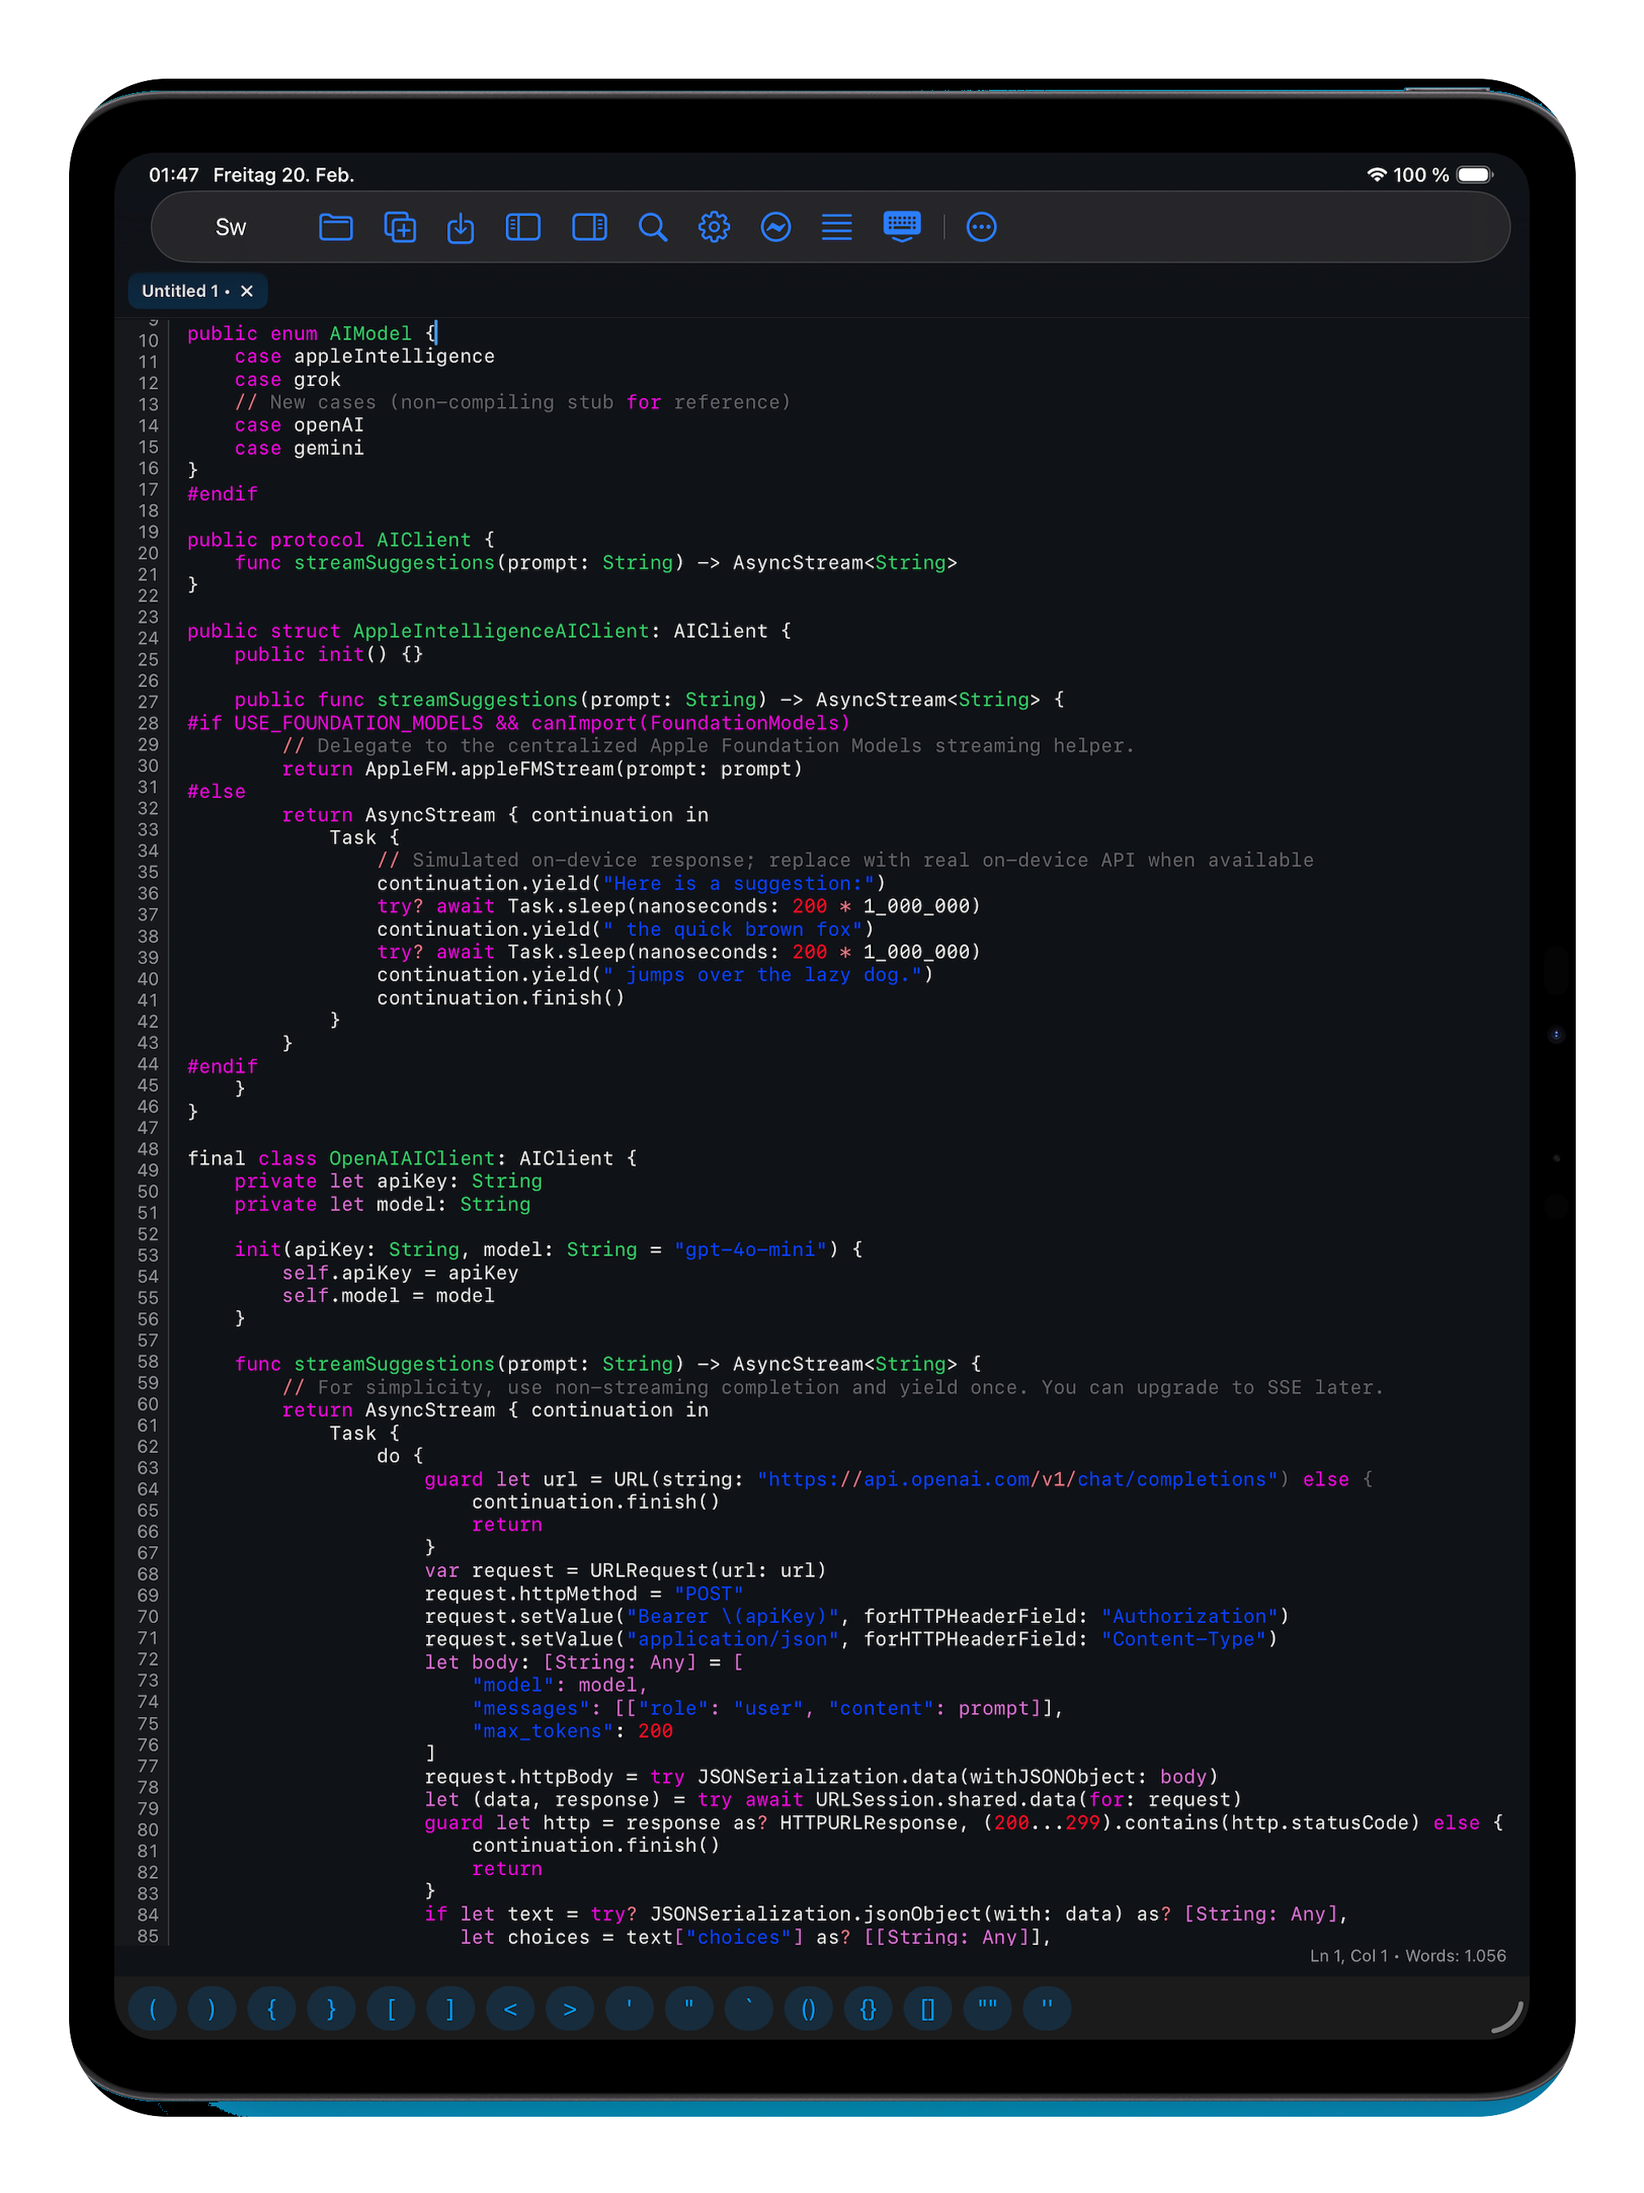
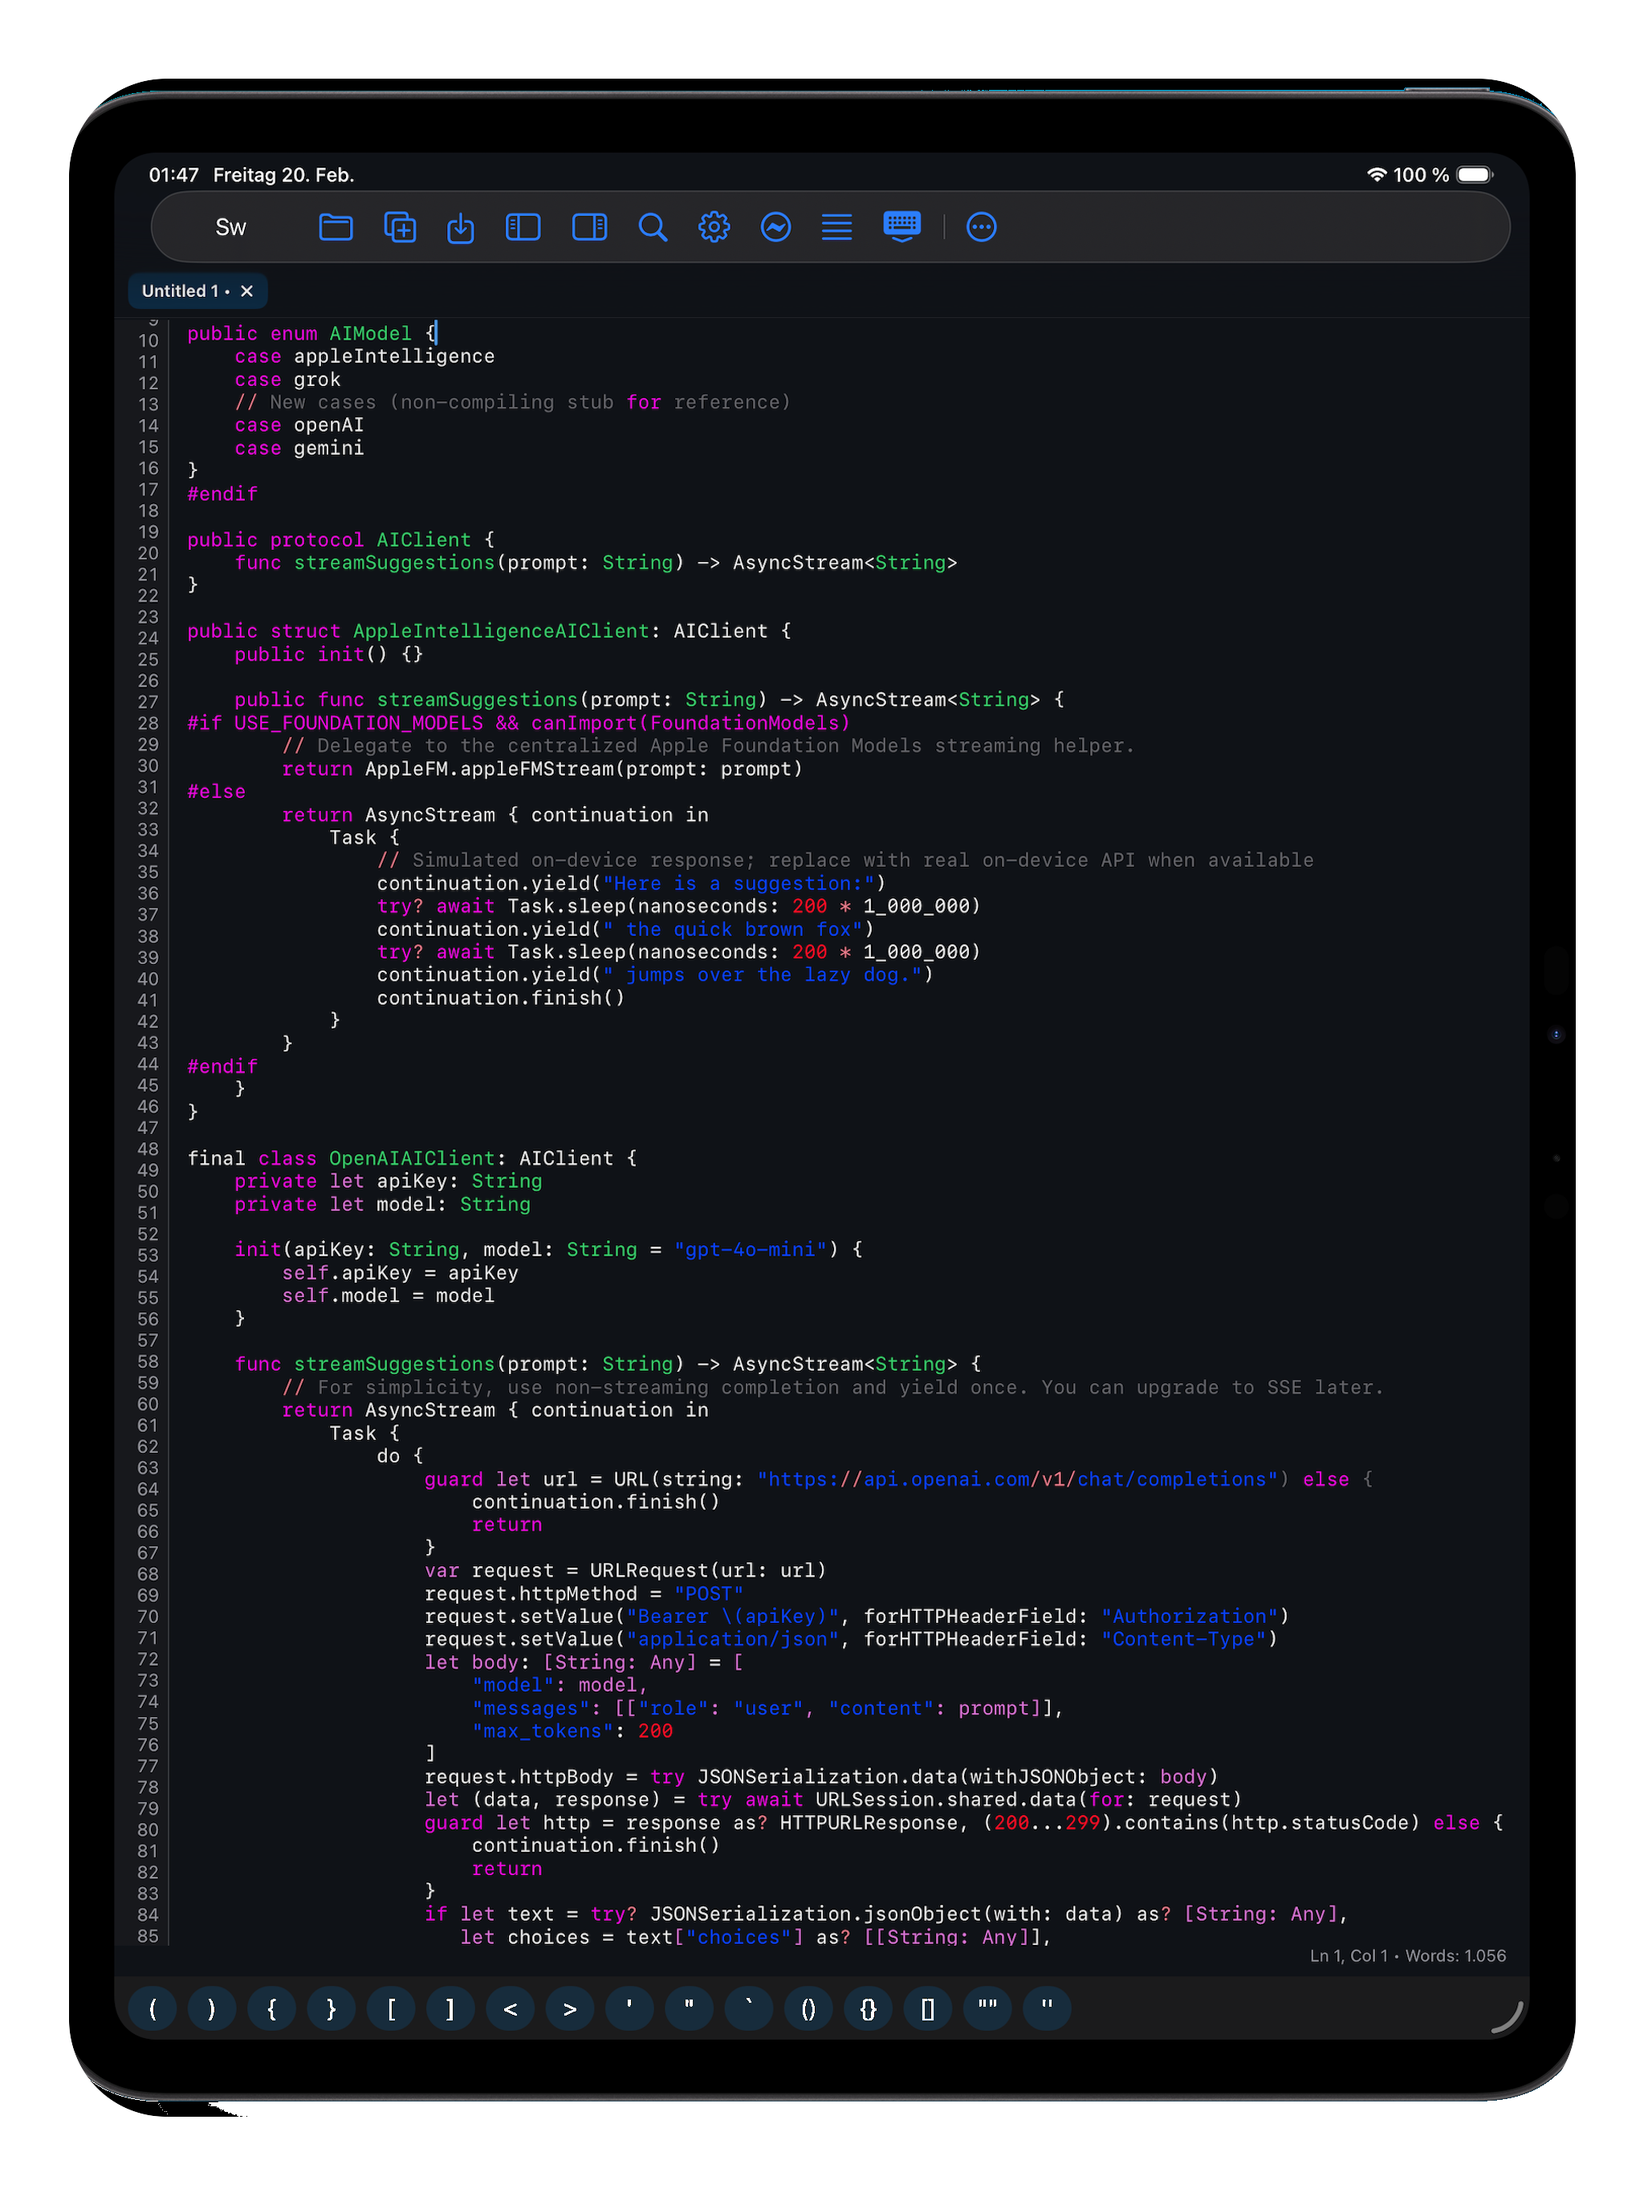
Fix README workflow badges and iPad bottom halo

Changed region(s): [[0.125, 0.9334, 0.9375, 0.9645]]

diff --git a/README.md b/README.md
@@ -9,9 +9,9 @@
 </p>
 
 <p align="center">
-  <a href="https://github.com/h3pdesign/Neon-Vision-Editor/actions/workflows/release-notarized.yml"><img alt="Notarized Release" src="https://github.com/h3pdesign/Neon-Vision-Editor/actions/workflows/release-notarized.yml/badge.svg?branch=main"></a>
-  <a href="https://github.com/h3pdesign/Neon-Vision-Editor/actions/workflows/codeql.yml"><img alt="CodeQL" src="https://github.com/h3pdesign/Neon-Vision-Editor/actions/workflows/codeql.yml/badge.svg?branch=main"></a>
-  <a href="https://github.com/h3pdesign/homebrew-tap/actions/workflows/update-cask.yml"><img alt="Homebrew Cask Sync" src="https://github.com/h3pdesign/homebrew-tap/actions/workflows/update-cask.yml/badge.svg?branch=main"></a>
+  <a href="https://github.com/h3pdesign/Neon-Vision-Editor/actions/workflows/release-notarized.yml"><img alt="Notarized Release" src="https://img.shields.io/github/actions/workflow/status/h3pdesign/Neon-Vision-Editor/release-notarized.yml?branch=main&label=Notarized%20Release"></a>
+  <a href="https://github.com/h3pdesign/Neon-Vision-Editor/actions/workflows/codeql.yml"><img alt="CodeQL" src="https://img.shields.io/github/actions/workflow/status/h3pdesign/Neon-Vision-Editor/codeql.yml?label=CodeQL"></a>
+  <a href="https://github.com/h3pdesign/homebrew-tap/actions/workflows/update-cask.yml"><img alt="Homebrew Cask Sync" src="https://img.shields.io/github/actions/workflow/status/h3pdesign/homebrew-tap/update-cask.yml?label=Homebrew%20Cask%20Sync"></a>
 </p>
 
 <p align="center">
